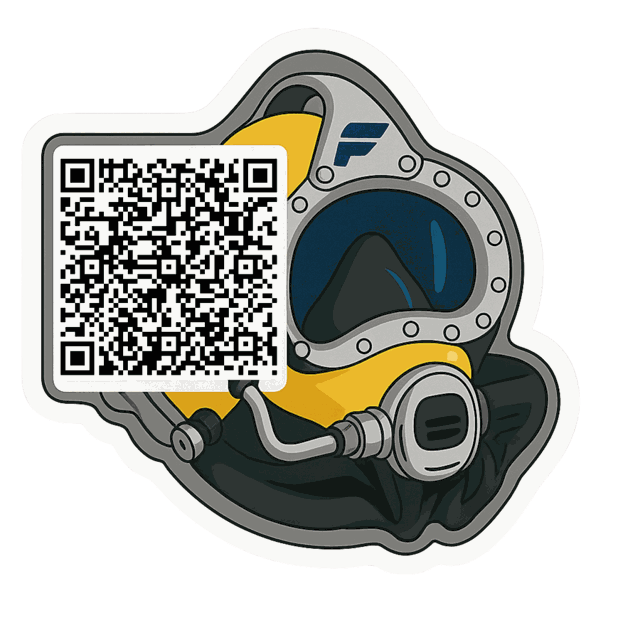
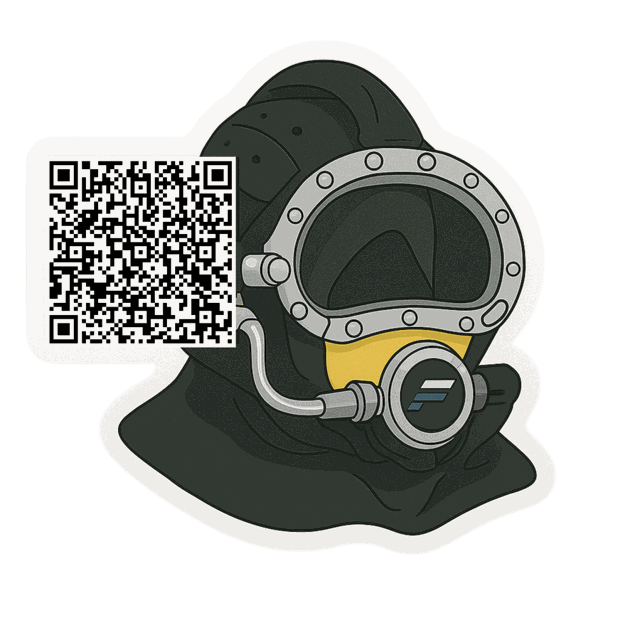
Swap NSW QR codes: yellow = KM 37, black = Bandmask 28; sw v14
Claude-Session: https://claude.ai/code/session_01SGJUkpaVddbE6CArVeQoS5

diff --git a/sw.js b/sw.js
@@ -1,7 +1,7 @@
 /* Franmarine Daily Worksheet — service worker
  * Caches the app shell + the two CDN libraries so the app opens with no signal.
  * Bump CACHE whenever index.html changes so devices pick up the new version. */
-const CACHE = 'franmarine-ws-v13';
+const CACHE = 'franmarine-ws-v14';
 const SHELL = [
   './', './index.html', './manifest.webmanifest', './icon-192.png', './icon-512.png',
   'https://cdnjs.cloudflare.com/ajax/libs/pdf.js/3.11.174/pdf.min.js',
